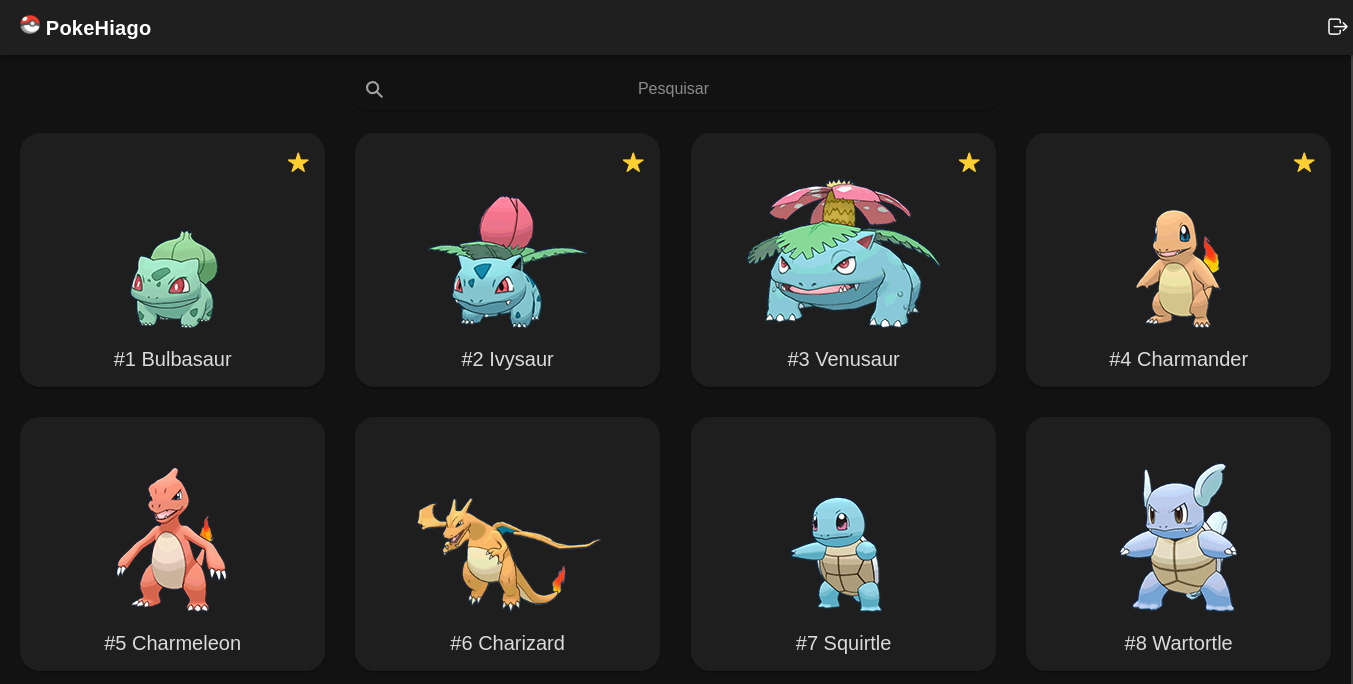
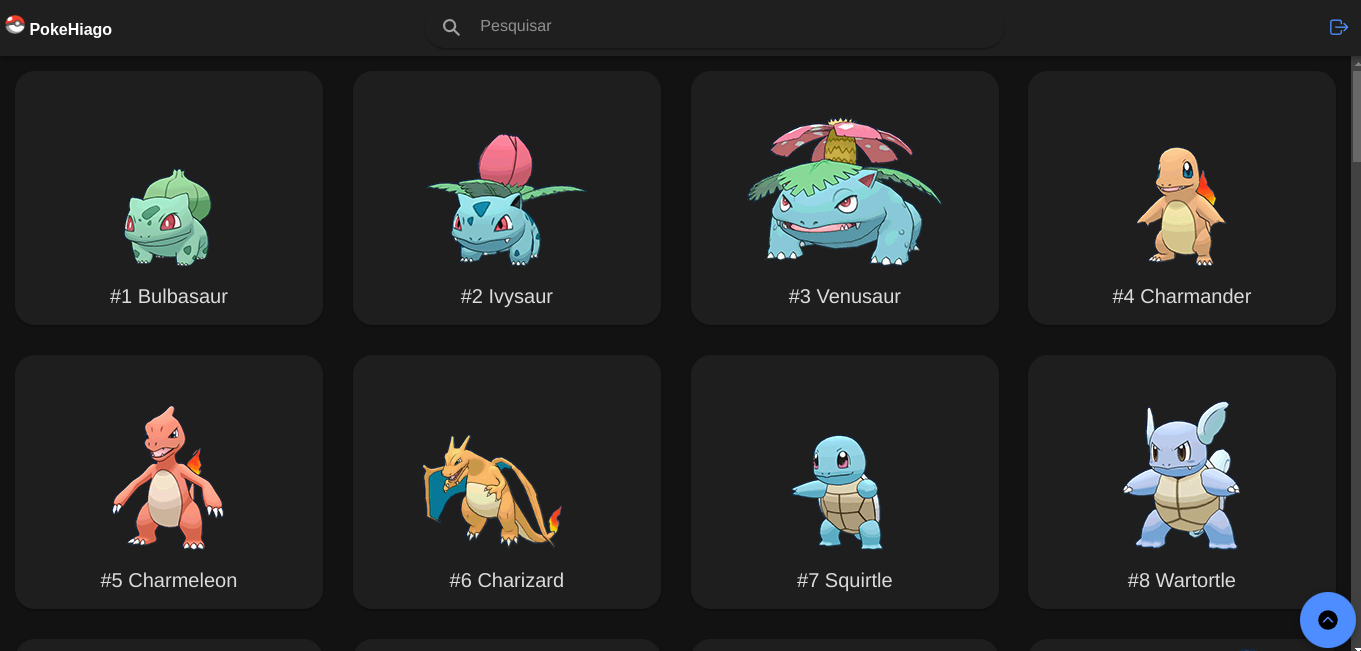
feat: searchbar sempre no topo com toolbar

diff --git a/frontend/src/app/home/home.page.html b/frontend/src/app/home/home.page.html
@@ -1,29 +1,34 @@
 <ion-header>
   <ion-toolbar>
-    <ion-title>
-      <img src="../../assets/icon/favicon.png" style="width: 20px;">
-      <b> PokeHiago</b>
-    </ion-title>
-    <ion-buttons slot="end">
-      <ion-button fill="clear" (click)="logout()" shape="round">
-        <ion-icon slot="icon-only" name="log-out-outline"></ion-icon>
-      </ion-button>
-    </ion-buttons>
+    <ion-grid>
+      <ion-row class="ion-align-items-center">
+        <ion-col size="auto">
+          <img src="../../assets/icon/favicon.png" style="width: 20px;">
+          <b id="nome"> PokeHiago</b>
+        </ion-col>
+        <ion-col style="display: flex; justify-content: center; ">
+          <ion-searchbar placeholder="Pesquisar" (ionInput)="applyFilter($event)"
+            (ionClear)="clearFilter()"></ion-searchbar>
+        </ion-col>
+        <ion-col size="auto">
+            <ion-button fill="clear" (click)="logout()" shape="round">
+              <ion-icon slot="icon-only" name="log-out-outline"></ion-icon>
+            </ion-button>
+        </ion-col>
+      </ion-row>
+    </ion-grid>
   </ion-toolbar>
 </ion-header>
 
 <ion-content>
   <div id="container">
-    <div style="display: flex; justify-content: center; background-color:transparent;">
-      <ion-searchbar placeholder="Pesquisar" (ionInput)="applyFilter($event)" (ionClear)="clearFilter()"/>
-    </div>
     <ion-grid>
       <ion-row *ngFor="let cardGroup of getCardGroups(); trackBy: trackByPokemonId">
         <ion-col *ngFor="let card of cardGroup; trackBy: trackByPokemonId" size="12" size-sm="3">
           <ion-card id="card-poke" [class.favorite]="card.favorite">
             <img [alt]="card.name" [src]="card.image" style="height: 195px;" />
-            <ion-button (click)="updateFavorite(card.id, !card.favorite)" color="warning" 
-            fill="clear" class="favorite-button" shape="round">
+            <ion-button (click)="updateFavorite(card.id, !card.favorite)" color="warning" fill="clear"
+              class="favorite-button" shape="round">
               <ion-icon slot="icon-only" [name]="card.favorite ? 'star' : 'star-outline'"></ion-icon>
             </ion-button>
             <ion-button shape="round" (click)="openModal(card.id, card.favorite)" class="detail-button" fill="clear">
@@ -37,13 +42,12 @@
       </ion-row>
     </ion-grid>
   </div>
-    <ion-infinite-scroll (ionInfinite)="onIonInfinite($event)">
-      <ion-infinite-scroll-content loadingText="Please wait..." loadingSpinner="bubbles"></ion-infinite-scroll-content>
-    </ion-infinite-scroll>
-    <ion-fab  slot="fixed" vertical="bottom" horizontal="end">
-      <ion-fab-button (click)="scrollToTop()">
-        <ion-icon name="chevron-up-circle"></ion-icon>
-      </ion-fab-button>
-    </ion-fab>
+  <ion-infinite-scroll (ionInfinite)="onIonInfinite($event)">
+    <ion-infinite-scroll-content loadingText="Please wait..." loadingSpinner="bubbles"></ion-infinite-scroll-content>
+  </ion-infinite-scroll>
+  <ion-fab slot="fixed" vertical="bottom" horizontal="end">
+    <ion-fab-button (click)="scrollToTop()">
+      <ion-icon name="chevron-up-circle"></ion-icon>
+    </ion-fab-button>
+  </ion-fab>
 </ion-content>
-

diff --git a/frontend/src/app/home/home.page.scss b/frontend/src/app/home/home.page.scss
@@ -14,6 +14,34 @@
   margin: 0;
 }
 
+ion-toolbar {
+  --padding-start: 0;
+  --padding-end: 0;
+}
+
+ion-grid {
+  padding: 0;
+}
+
+#mobile-searchbar {
+  display: none;
+}
+
+@media (max-width: 768px) {
+  #pc-searchbar {
+    display: none !important; /* Use !important to ensure it overrides other styles */
+  }
+
+  #mobile-searchbar {
+    display: flex !important; /* Use !important to ensure it overrides other styles */
+  }
+}
+
+
+ion-searchbar {
+  --background: transparent;
+}
+
 #container a {
   text-decoration: none;
 }
@@ -35,12 +63,15 @@
   border-radius: 20px;
 }
 
+@media (max-width: 768px){
+  #nome{
+    display: none;
+  }
+}
+
 ion-searchbar {
   --border-radius: 250px;
   width: 50%;
-  position: fixed;
-  top: 10;
-  z-index: 999; /* Mantém a barra de pesquisa acima de outros elementos */
 }
 
 @media (max-width: 768px) {

diff --git a/frontend/src/app/home/home.page.ts b/frontend/src/app/home/home.page.ts
@@ -21,7 +21,7 @@ export class HomePage {
   pokemonsFavId: number[] = []
   idUserLog: number = 0
   @ViewChild('modal', { static: true }) modal: any;
-  @ViewChild(IonContent) content!: IonContent; 
+  @ViewChild(IonContent, { static: false }) content!: IonContent;
 
   constructor(private pokemonService: PokemonService, private userService: UserService,
     private modalCtrl: ModalController, private authService: AuthenticationService,
